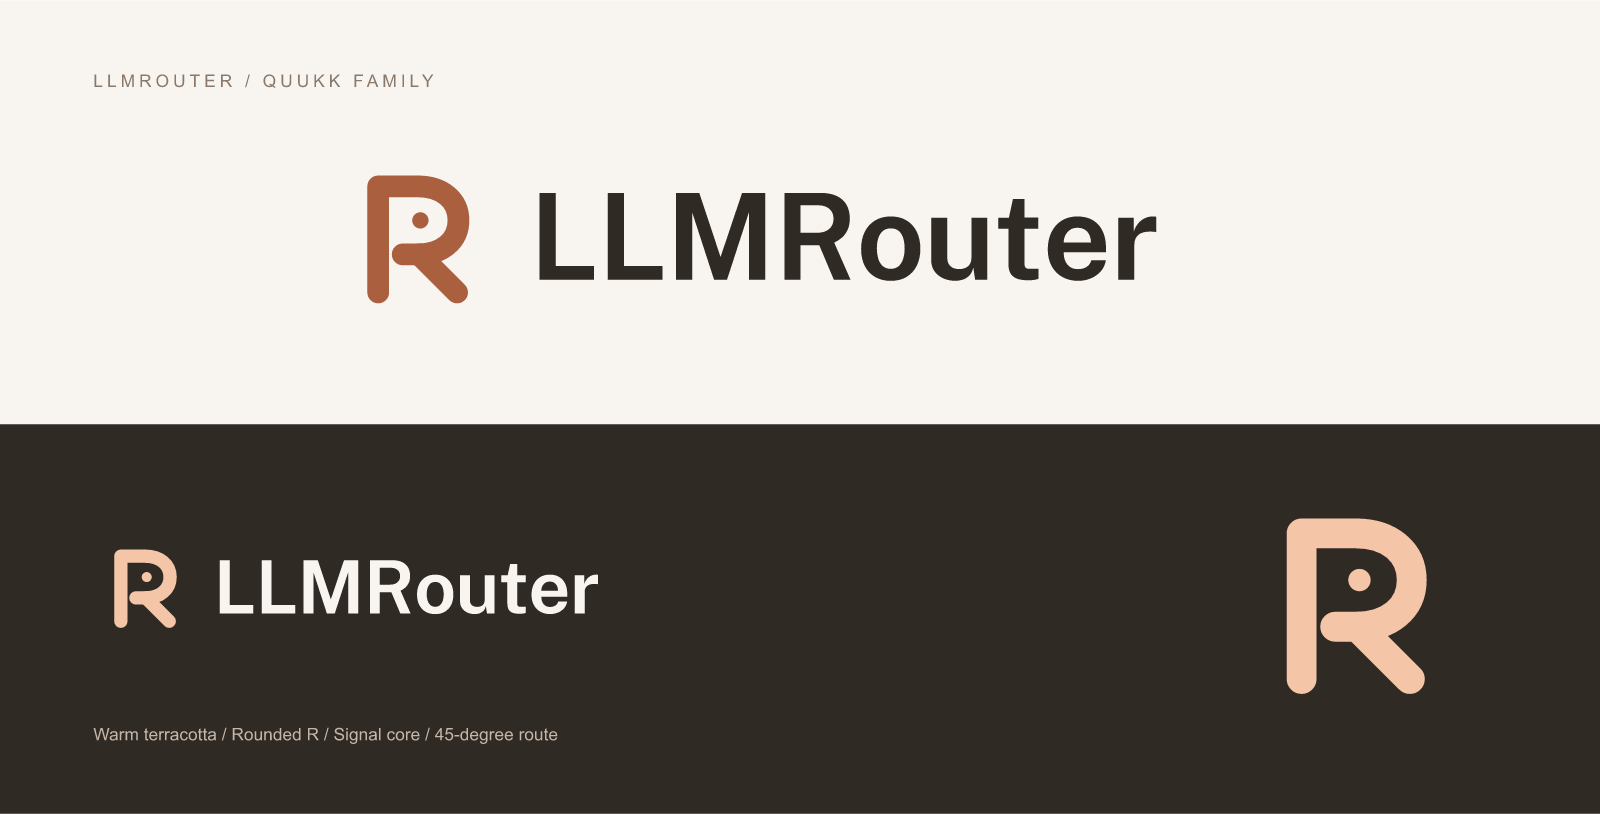
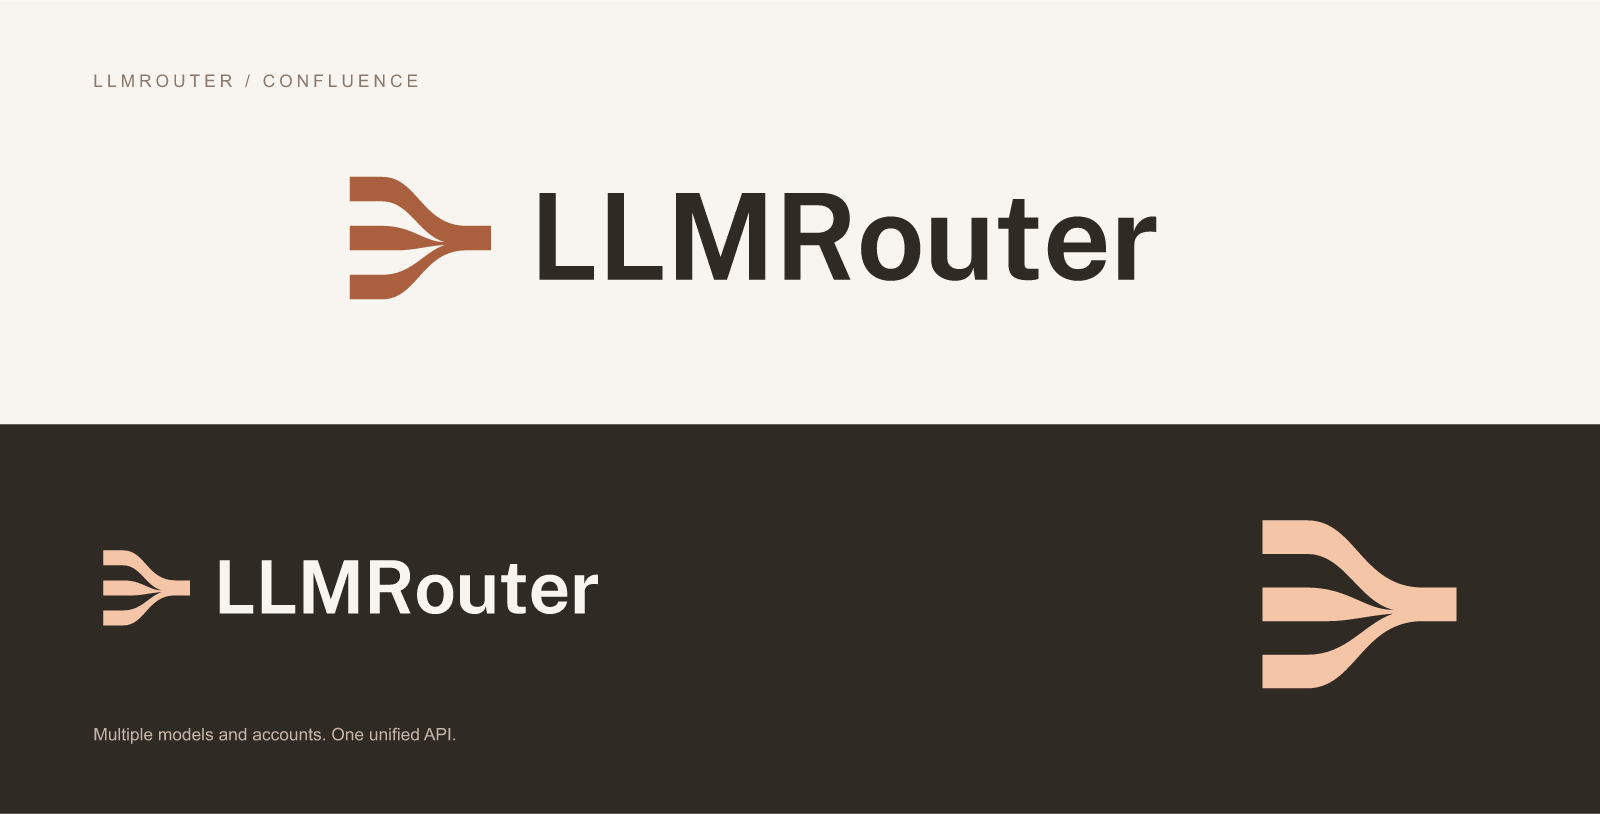
feat(brand): use confluence mark for model routing

diff --git a/web/e2e/initial-branding.spec.ts b/web/e2e/initial-branding.spec.ts
@@ -28,8 +28,8 @@ test('serves LLMRouter branding before application scripts run', async ({
   await expect(page).toHaveTitle('LLMRouter')
   await expect(
     page.locator('link[rel="icon"][type="image/svg+xml"]')
-  ).toHaveAttribute('href', '/brand/llmrouter-mark.svg')
-  const icon = await page.request.get('/brand/llmrouter-mark.svg')
+  ).toHaveAttribute('href', '/brand/llmrouter-confluence.svg')
+  const icon = await page.request.get('/brand/llmrouter-confluence.svg')
   expect(icon.ok()).toBeTruthy()
   expect(icon.headers()['content-type']).toContain('image/svg+xml')
   await expect(page.locator('meta[name="title"]')).toHaveAttribute(

diff --git a/web/src/components/layout/components/footer.tsx b/web/src/components/layout/components/footer.tsx
@@ -159,7 +159,8 @@ export function Footer(props: FooterProps) {
     demoSiteEnabled,
   } = useSystemConfig()
 
-  const displayLogo = systemLogo || props.logo || '/brand/llmrouter-mark.svg'
+  const displayLogo =
+    systemLogo || props.logo || '/brand/llmrouter-confluence.svg'
   const displayName = systemName || props.name || 'LLMRouter'
   const isDemoSiteMode = Boolean(demoSiteEnabled)
   const currentYear = new Date().getFullYear()

diff --git a/web/index.html b/web/index.html
@@ -2,7 +2,7 @@
 <html lang="en">
   <head>
     <meta charset="UTF-8" />
-    <link rel="icon" type="image/svg+xml" href="/brand/llmrouter-mark.svg" />
+    <link rel="icon" type="image/svg+xml" href="/brand/llmrouter-confluence.svg" />
     <link rel="apple-touch-icon" href="/brand/apple-touch-icon.png" />
     <meta name="viewport" content="width=device-width, initial-scale=1.0" />
     <meta name="google" content="notranslate" />

diff --git a/web/src/lib/constants.ts b/web/src/lib/constants.ts
@@ -22,7 +22,7 @@ For commercial licensing, please contact support@quantumnous.com
 
 // System Configuration Defaults
 export const DEFAULT_SYSTEM_NAME = 'LLMRouter'
-export const DEFAULT_LOGO = '/brand/llmrouter-mark.svg'
+export const DEFAULT_LOGO = '/brand/llmrouter-confluence.svg'
 
 // LocalStorage Keys
 export const STORAGE_KEYS = {

diff --git a/docs/brand/explorations/functional-routing/README.md b/docs/brand/explorations/functional-routing/README.md
@@ -1,0 +1,21 @@
+# Functional routing logo exploration
+
+Status: concept exploration only, following the user's rejection of the literal R mark. No production assets, runtime configuration or release have been changed in this round.
+
+## Functional brief
+
+LLMRouter combines multiple model providers/accounts behind one API, distributes load, avoids unavailable accounts and keeps frontend access continuous. Quukk's warm palette is a family cue; a literal letter is no longer the organizing idea.
+
+- **A — Confluence / 汇流:** several substantial lanes converge into one common outlet. Recommended for the clearest expression of many models/accounts behind one API. Before vector delivery, widen negative-space joins and optically simplify the 16/24px variant.
+- **B — Continuity / 连续通路:** parallel routes and a bypass loop convey account rotation and continuity after failure. More emphasis on availability, with more visual detail.
+- **C — Selector / 智能调度:** a central decision point connects incoming supply and outgoing paths. Emphasizes choosing a healthy model/account for each request.
+
+`concepts.png` is a raster concept board, not a production-ready vector master or evidence of a deployed change. Preview text and small-size mockups are design studies, not actual browser acceptance.
+
+## Generation provenance
+
+Mode: built-in `image_gen` tool, no CLI/API-key fallback. New-image generation from a written functional brief. Original output retained at `/Users/neomei/.codex/generated_images/01a16da9-d13c-7002-ba21-417866dd5ac3/exec-fc663ff2-e01c-4468-91ca-31dfe41c63cb.png`.
+
+Prompt:
+
+> Design a polished, professional logo exploration board for LLMRouter, an AI API gateway that pools multiple model provider accounts, balances requests, fails over between healthy accounts, and exposes one stable API endpoint. The user rejected a previous literal R monogram; develop genuinely graphic functional symbols, no letter monograms. Create THREE distinct finished logo concepts on one exceptionally clean ivory (#F8F5F0) presentation board, side by side in generous whitespace. Concept A 'CONFLUENCE': three substantial softly curved ribbon lanes gathering into one clean common exit; an elegant compact unified silhouette with intentionally designed negative space, conveying many models -> one API. Concept B 'CONTINUITY': two or three parallel routes wrapping around an open central space, with a clean bypass connection that suggests traffic continues when one path is unavailable; visually balanced, no literal infinity symbol. Concept C 'SELECTOR': an abstract routing junction or lens with a central choice and two well-separated output channels; clever negative space, geometric restraint. Make all three symbols materially different in silhouette, with memorable custom geometry rather than stock network clipart. Brand family reference: warm terracotta #AA603F, deep brown-black #302A25, optional muted copper #C38362. Flat vector-like solids, beautifully balanced curves, consistent optical weight, crisp edges, strong simple shapes that work as a 24px favicon. NO 3D, shadows, gradients, generic robot heads, brains, chips, circuit boards, sparkles, hexagons, globe, clouds, arrows pasted onto circles, letter R, chain links, generic AI knots, or recognizable existing brand logos. Each column: a large terracotta symbol; below it a restrained dark wordmark exactly 'LLMRouter' in a refined contemporary sans-serif; tiny label exactly 'A / CONFLUENCE', 'B / CONTINUITY', or 'C / SELECTOR'; below, a small monochrome version and a small ivory symbol on a deep brown square to demonstrate real scalability. Top heading exactly 'LLMRouter', small subtitle exactly 'Many models. One continuous API.' No other text or annotations. Horizontal board, editorial-quality spacing, symbols as the main focus, three equal columns.

diff --git a/docs/brand/README.md b/docs/brand/README.md
@@ -1,10 +1,10 @@
 # LLMRouter visual identity
 
-The user delegated the final design choice after reviewing three concepts on 2026-10-25. The selected mark is **Route R**: a rounded Router initial, a central signal dot and a 45-degree outgoing route. Its geometry, warm terracotta and dark brown typography relate to the user-supplied Quukk identity while retaining an independent product symbol.
+After reviewing the functional graphic concepts on 2026-10-25, the user selected A — Confluence. The selected mark is **Confluence**: three model/account lanes converge into one unified outlet. Its flat geometry, warm terracotta and dark brown typography relate to the user-supplied Quukk identity while explaining LLMRouter's core job without a letter monogram.
 
 ## Artwork
 
-- `web/public/brand/llmrouter-mark.svg`: transparent 256 × 256 vector master; terracotta `#AA603F`.
+- `web/public/brand/llmrouter-confluence.svg`: transparent 256 × 256 vector master; three lanes converge into one outlet. `llmrouter-mark.svg` remains an identical compatibility alias.
 - `llmrouter-mark-mono.svg`: black monochrome master for template/presentation uses.
 - `llmrouter-wordmark.svg`: horizontal mark and outlined Public Sans 650 lettering in `#302A25`.
 - `llmrouter-wordmark-dark.svg`: warm-light mark `#F4C5A7` and ivory lettering `#F8F5F0`.
@@ -18,6 +18,6 @@ The master has no external font/image dependencies. Wordmarks convert Public San
 
 ## Website rollout
 
-Default branding and initial HTML use `/brand/llmrouter-mark.svg`, avoiding reuse of a previously cached upstream logo URL. The PNG/ICO paths also contain the new artwork for older clients. Existing administrator-supplied custom logos remain supported. Production may serve these exact static artifacts at Nginx and set the Logo option to this SVG, independently of the backend release. Asset publication must retain the current backend image, existing site routing and other settings, with rollback copies of the previous logo option and Nginx file.
+Default branding and initial HTML use `/brand/llmrouter-confluence.svg`, avoiding reuse of a previously cached upstream logo URL. The PNG/ICO paths also contain the new artwork for older clients. Existing administrator-supplied custom logos remain supported. Production may serve these exact static artifacts at Nginx and set the Logo option to this SVG, independently of the backend release. Asset publication must retain the current backend image, existing site routing and other settings, with rollback copies of the previous logo option and Nginx file.
 
 Upstream New API/QuantumNous legal, licensing, copyright and About attribution remain in place. This identity change does not imply signed or verified desktop installers; those require the normal packaging/signing pipeline.
